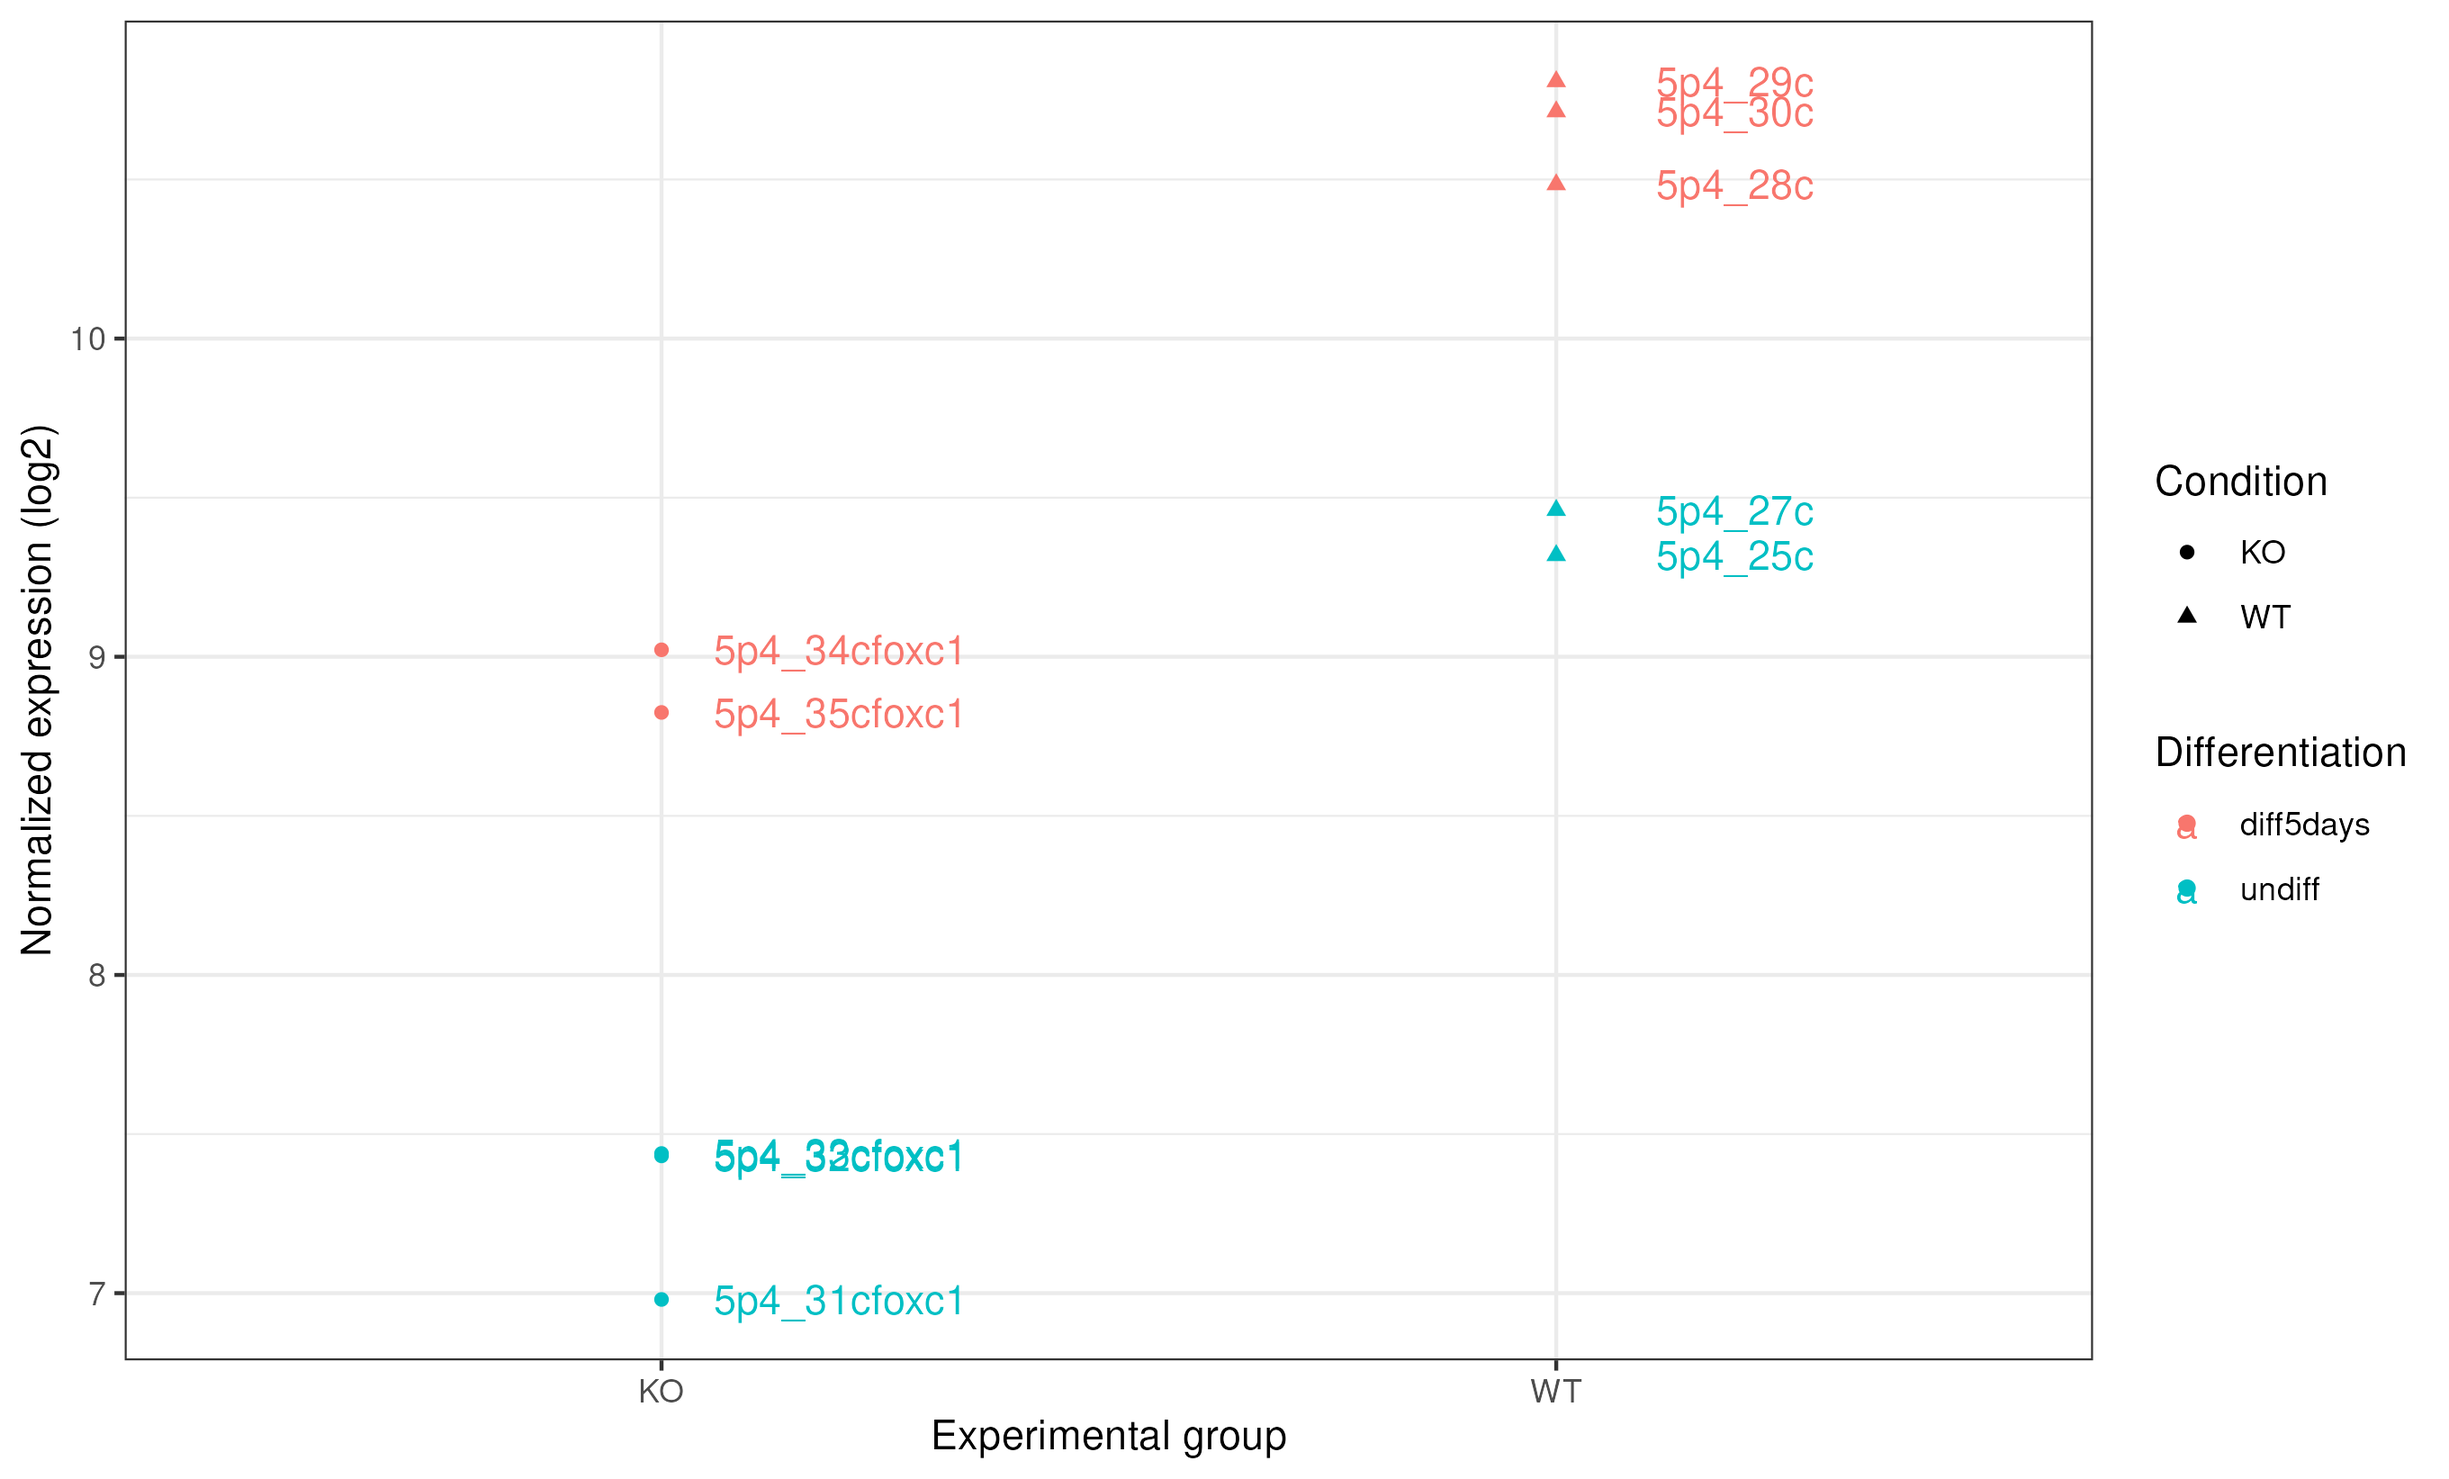
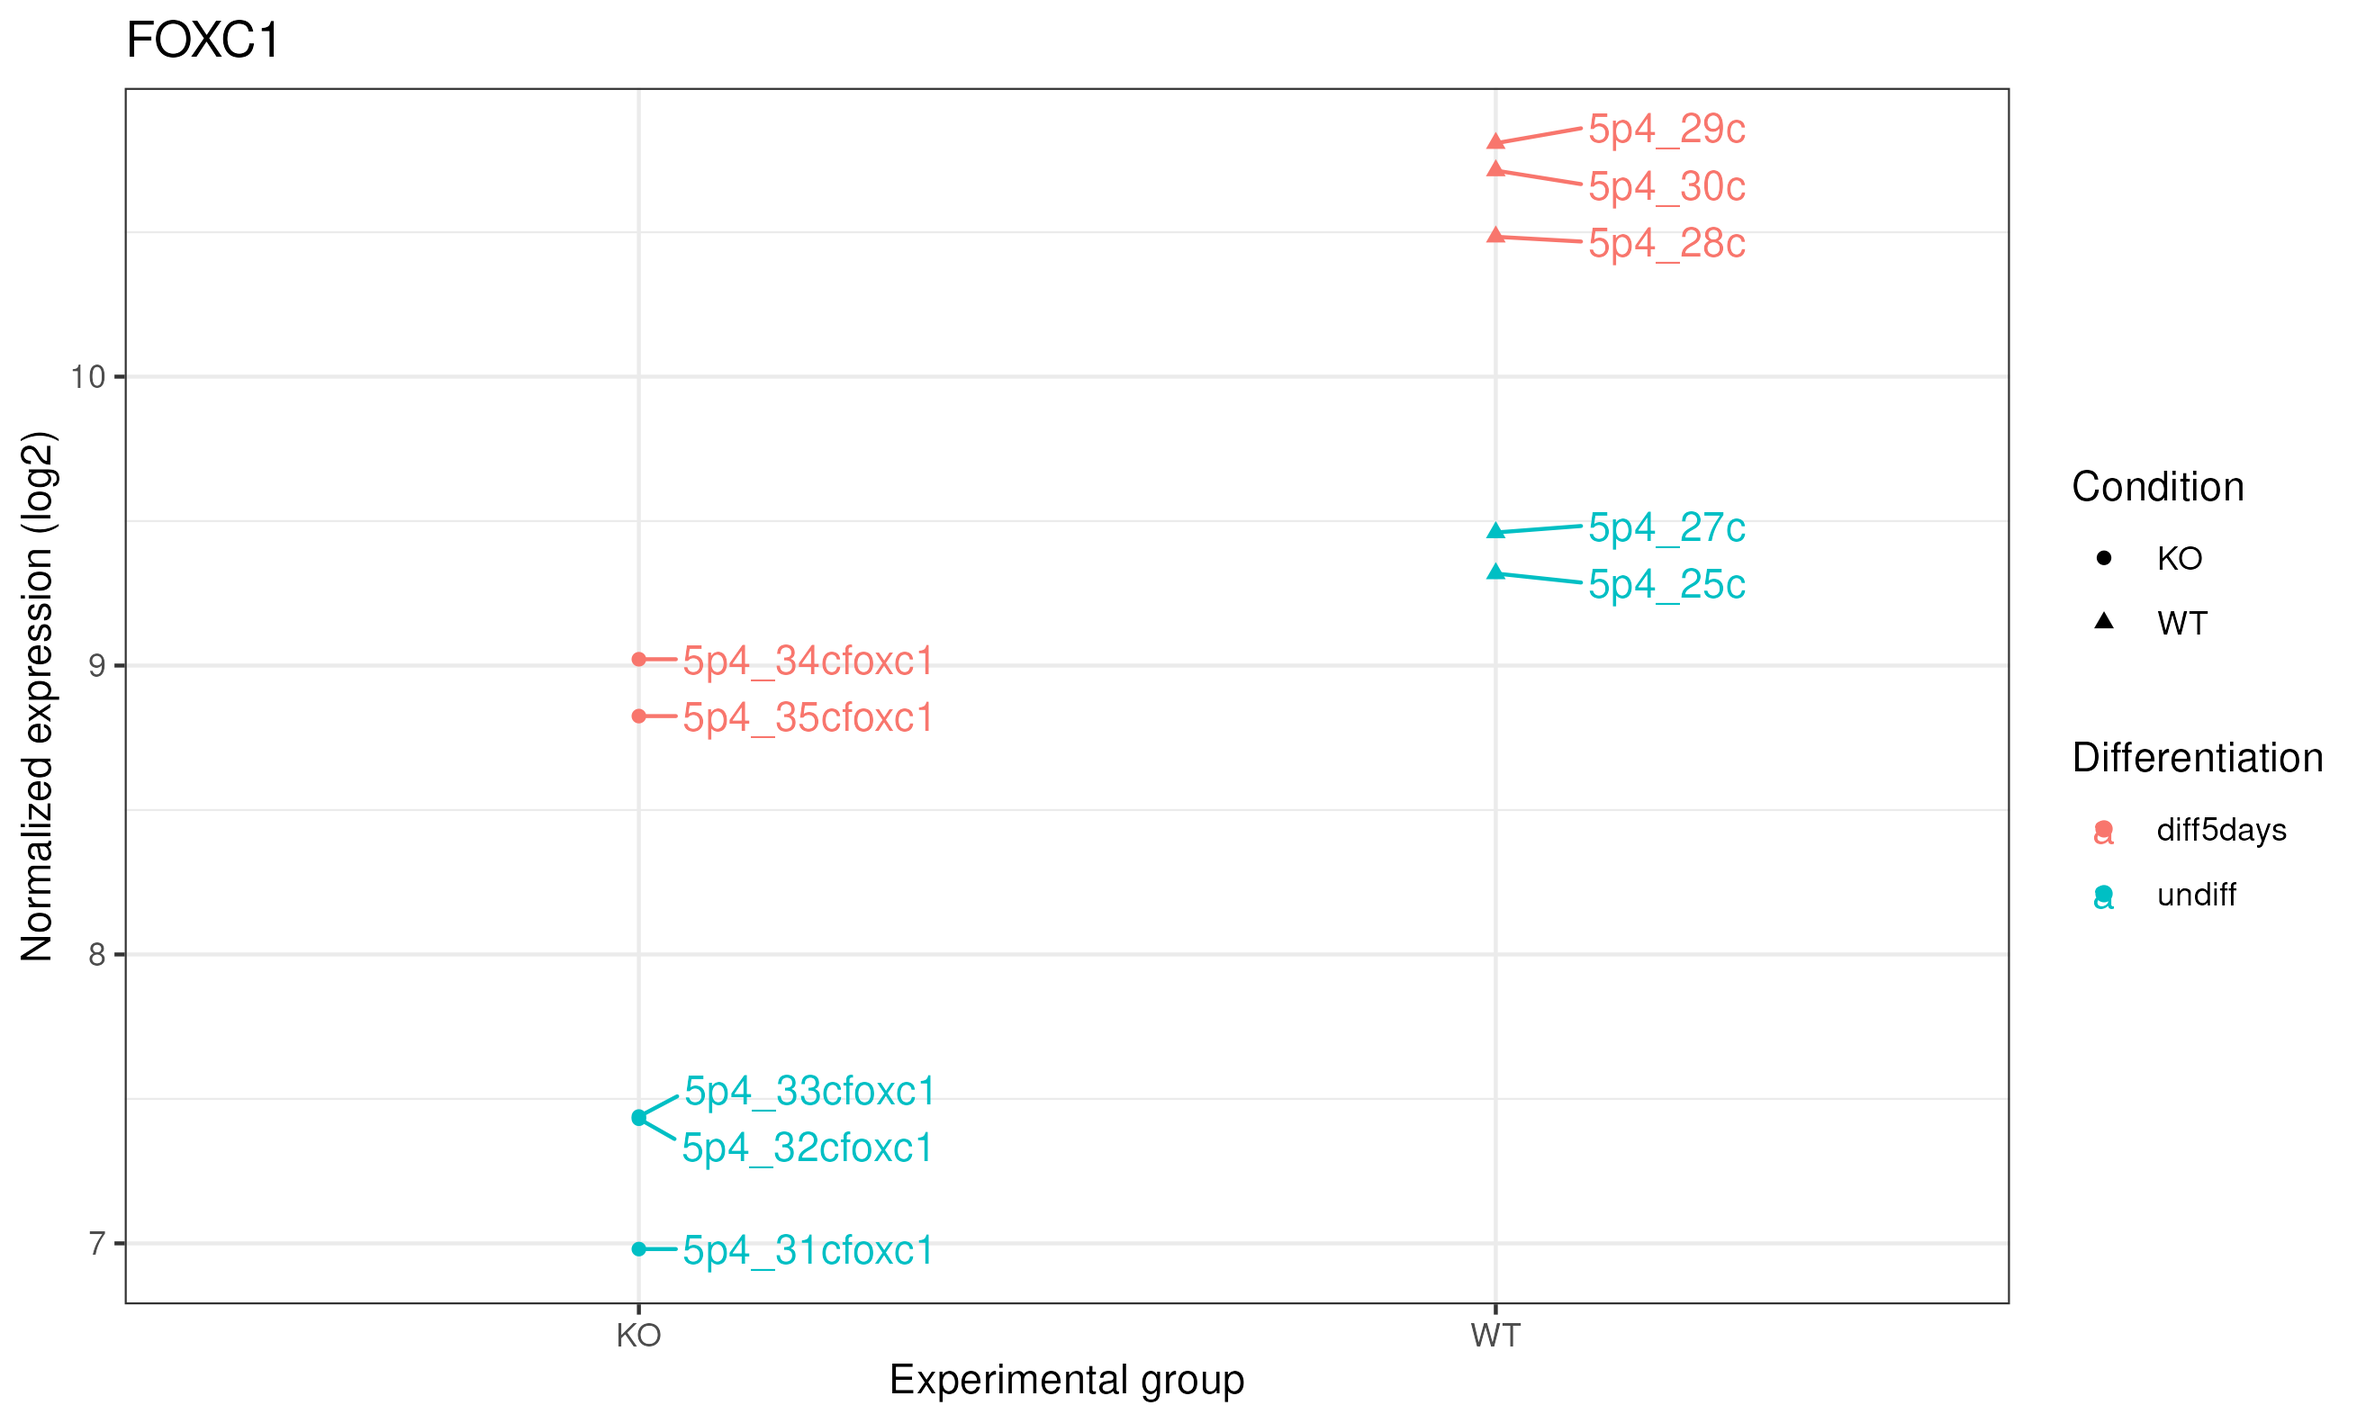
improving dot and boxplot

diff --git a/docs/differential_expression.md b/docs/differential_expression.md
@@ -683,12 +683,16 @@ mygenelong <- merge(mygenelong, sampletable, by.x="name", by.y="SampleName", all
 
 # Dot plot
 
-pdot <- ggplot(data=mygenelong, mapping=aes(x=Condition, y=value, col=Differentiation, shape=Condition, label=name)) +
+pdot <- ggplot(data=mygenelong, mapping=aes(x=Condition, y=value, col=Differentiation, shape=Condition, label=name)) + 
   geom_point() +
-  geom_text(nudge_x=0.2) +  
+  geom_text_repel(nudge_x=0.2) +  
   xlab(label="Experimental group") +
   ylab(label="Normalized expression (log2)") +
+  labs(title = "FOXC1") +
   theme_bw()
+
+ggsave("counts_foxc1_nice.png", pdot)
+
 
 ```
 
@@ -706,9 +710,14 @@ pbox <- ggplot(data=mygenelong,
                mapping=aes(x=Condition, y=value, fill=Differentiation, label=name)) +
   geom_boxplot(alpha = 0.3) +
   geom_jitter(aes(color=Differentiation), width=0.2, size=2)+
+  geom_text_repel() +
   xlab("Experimental group") +
   ylab("Normalized expression (log2)") +
+  labs(title = "FOXC1") +
   theme_bw()
+
+ggsave("counts_foxc1_nice_boxplot.png", pbox)
+
 
 ```
 
